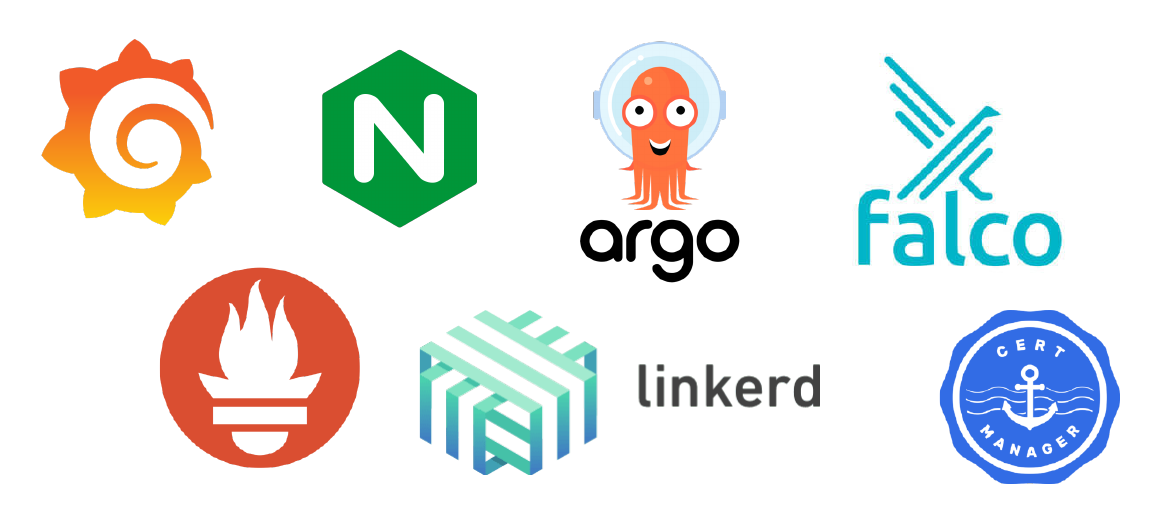
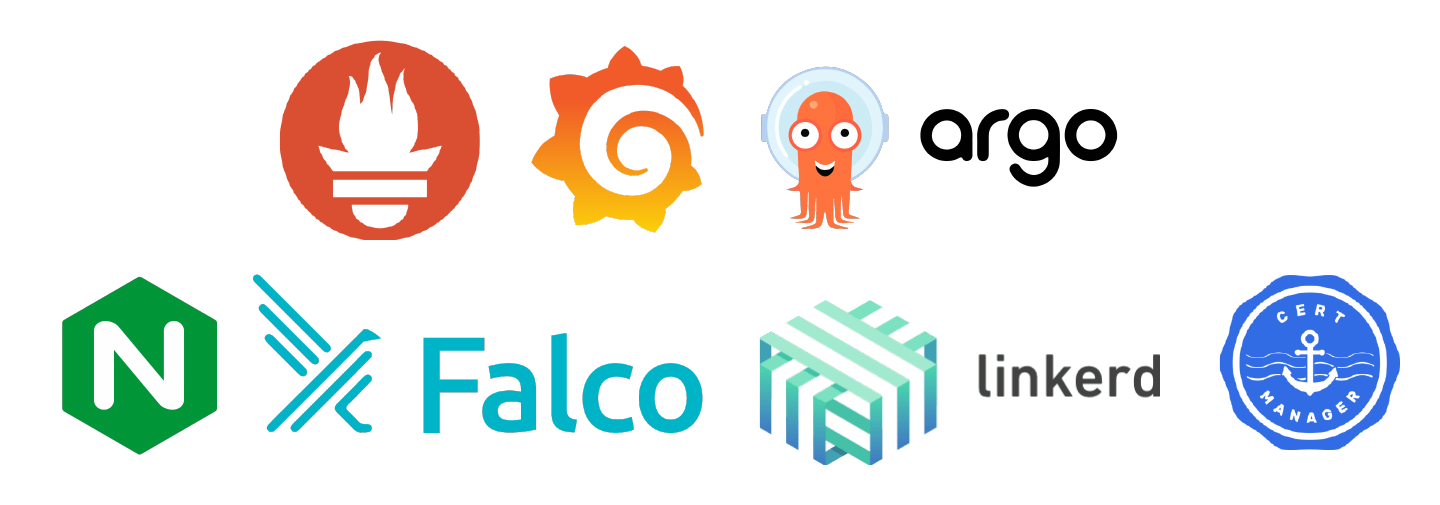
chore(projects): upgraded to svg

Changed region(s): [[0.0311, 0.0594, 0.9326, 0.5347], [0.0311, 0.505, 0.9948, 0.9505]]

diff --git a/README.md b/README.md
@@ -9,7 +9,7 @@ GitOps, Service-Mesh and observability techniques all out of the box.
 
 Showcasing the following projects within this cluster...
 
-![](images/projects.svg)
+![](images/projects.png)
 
 ## Installation
 
